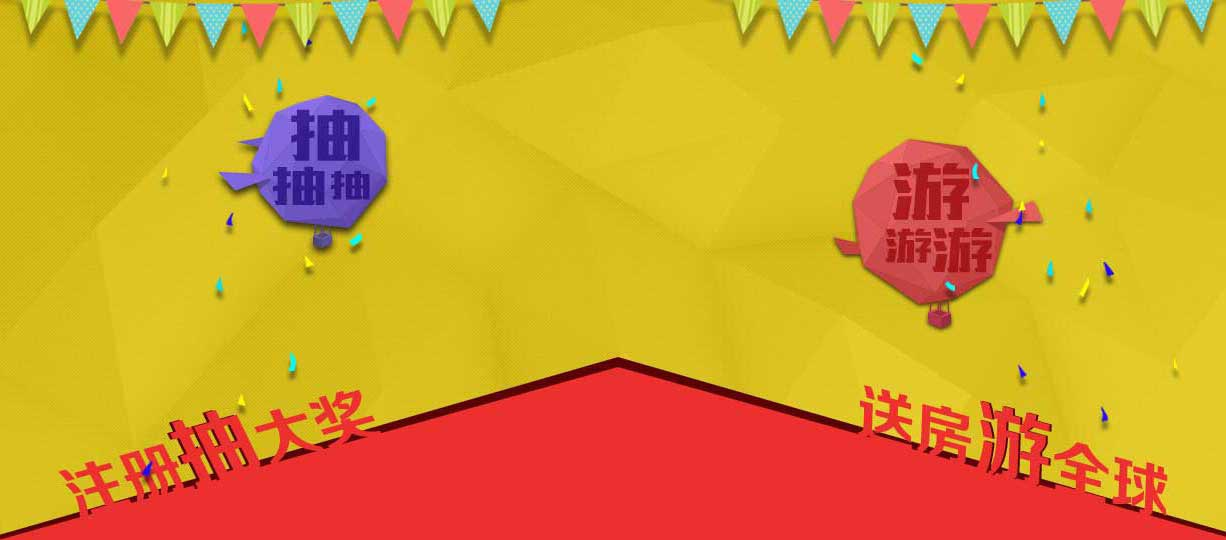
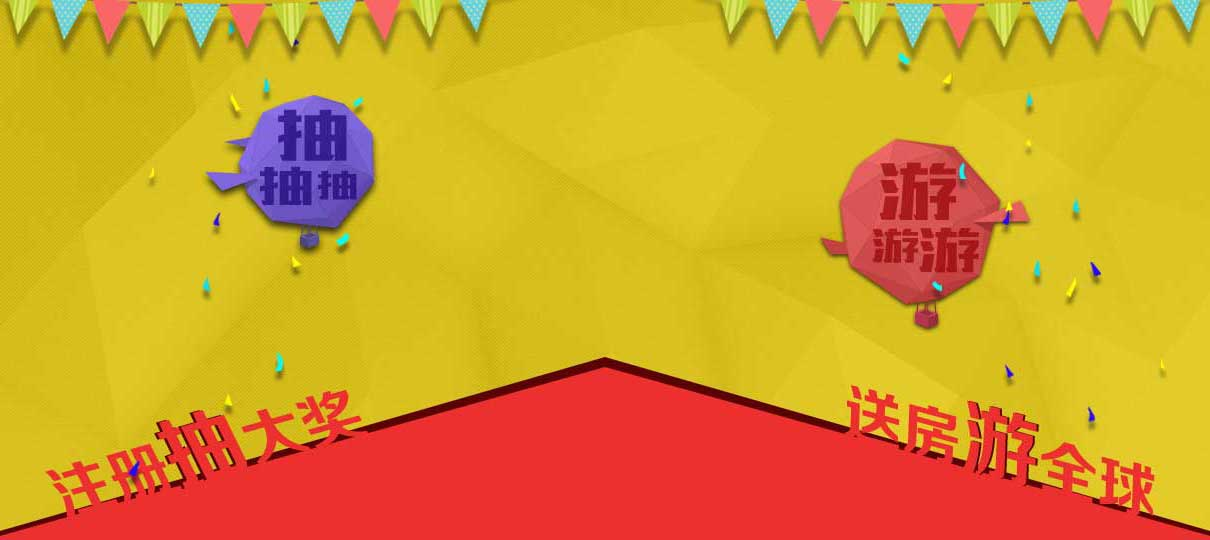
使用JavaScript修正抽奖页面高度及组件位置。

diff --git a/OnlnTest/Heivr/Mre/js/抽奖.js b/OnlnTest/Heivr/Mre/js/抽奖.js
@@ -87,6 +87,29 @@
 	//【等到全部加装完后才执行的代码！】
 	$(window).load(function () {
 
+		// 手机版页面高度修正
+		(function () {
+			var l_EarthDiv = nWse.stDomUtil.cQryOne(".cnApp_Mbl .cnApp_EarthDiv");
+			if (! l_EarthDiv)
+			{ return; }
+
+			var l_DrawHeader = nWse.stDomUtil.cQryOne(".cnApp_DrawHeader");
+		//	console.log(l_EarthDiv.offsetHeight + ", " + l_DrawHeader.offsetHeight);
+			var i_Scl = 1.2;	// 这个比例是合适的，但是取决于BG_Mbl.jpg的大小
+			var l_EH = l_EarthDiv.offsetHeight;
+			var l_DHH = Math.round(l_EH * i_Scl);
+			nWse.stCssUtil.cSetDimHgt(l_DrawHeader, l_DHH);
+
+			// 地球垂直居中
+			var l_Y = (l_DHH - l_EH) / 2;
+			nWse.stCssUtil.cSetPosTp(l_EarthDiv, l_Y);
+
+			// 文字相对于地球垂直居中
+			var l_CptnDiv = nWse.stDomUtil.cQryOne(".cnApp_CptnDiv");
+			l_Y = l_Y + (l_EH - l_CptnDiv.offsetHeight) / 2;
+			nWse.stCssUtil.cSetPosTp(l_CptnDiv, l_Y);
+		})();
+
 		// 地球旋转
 		(function () {
 			var l_Dom = document.getElementById("k_Earth");

diff --git a/OnlnTest/Heivr/Mre/抽奖.html b/OnlnTest/Heivr/Mre/抽奖.html
@@ -94,7 +94,7 @@
 				<img src="images/抽奖/标题文字.png" class="" />
 			</div>
 		</div>
-
+	
 		<div class="cnApp_Join">
 			<div id="k_Draw" class="cnApp_BtnDiv cnApp_Draw">
 				<span class="cnApp_Btn">我要抽奖</span>
@@ -103,7 +103,7 @@
 				<img src="images/抽奖/活动时间.png" />
 			</div>
 		</div>
-
+	
 		<div class="cnApp_Sect cnApp_List cnApp_Winning">
 			<div class="cnApp_TabDiv ">
 				<h2 class="cnApp_Cptn ">中奖名单</h2>
@@ -239,7 +239,7 @@
 		<div class="cnApp_Declaration">
 			<span class="cnApp_Text">●说明：本活动最终解释权归分权宝·全球度假俱乐部，因上证、深圳指数无法预测，保证活动公开、公正性。</span>
 		</div>
-	</div>
+	</div><!--cnApp_Env-->
 
 </body>
 </html>

diff --git a/OnlnTest/Heivr/Mre/css/抽奖.css b/OnlnTest/Heivr/Mre/css/抽奖.css
@@ -618,7 +618,7 @@
 
 .cnApp_Mbl .cnApp_DrawHeader {
 	background-size: 100%;
-	min-height: 180px;
+	min-height: 100px;
 	height: auto;
 
 	background-image: url("../images/抽奖/BG_Mbl.jpg");
